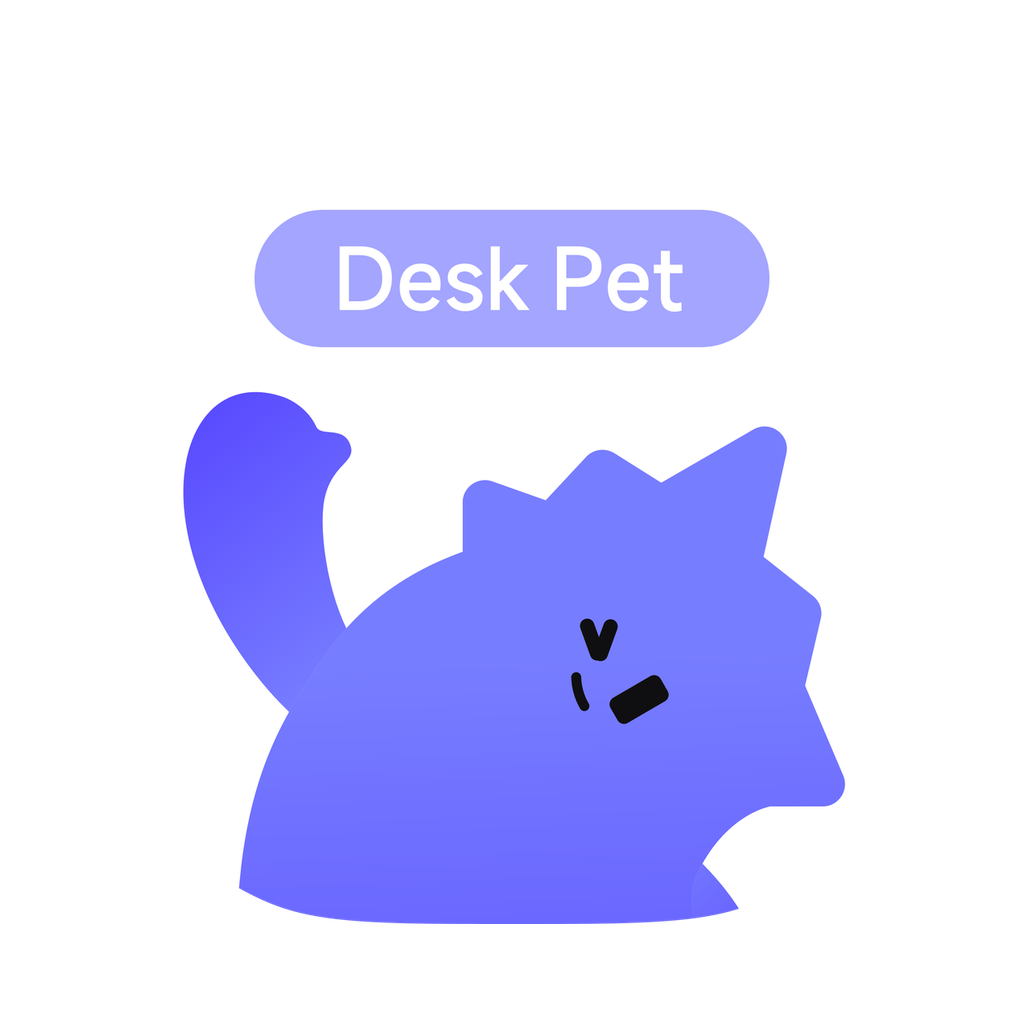
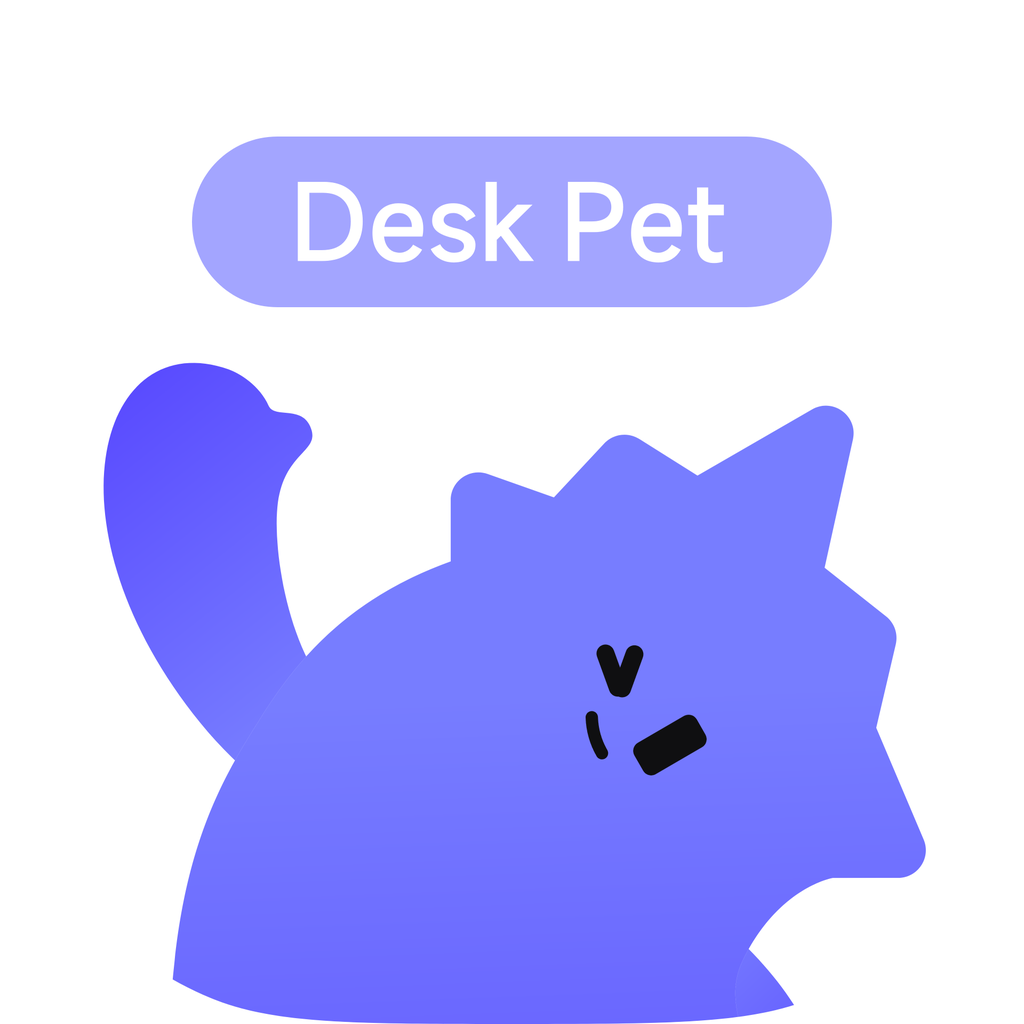
Update assets

diff --git a/CLAUDE.md b/CLAUDE.md
@@ -62,6 +62,12 @@ Both suites must pass before opening a PR.
 # Repack dmg without rebuilding sidecar
 cd clawd-on-desk && npm run build:mac:repack
 
+# Signed + Apple-notarized dmg (requires .env.apple-notarize.local)
+cd clawd-on-desk && npm run build:mac:notarize
+
+# Regenerate app icons from the master source
+python3 clawd-on-desk/scripts/generate-icons.py
+
 # Platform-specific builds (from clawd-on-desk/)
 npm run build:win:x64
 npm run build:win:arm64
@@ -116,7 +122,7 @@ Each coding agent integrates via hooks, log monitors, or plugins. `src/agent-gat
 - **License**: AGPL-3.0-only. The `clawd-on-desk/` directory is a vendored fork — keep upstream conventions and avoid unnecessary divergence.
 - **Resource paths**: Always use `path.join(__dirname, ...)`.
 - **Hook registration**: Only append to existing Claude hook arrays, never overwrite.
-- **Assets**: To edit release assets, copy to `assets/source/` first; don't edit originals of unknown provenance.
+- **Assets**: To edit release assets, copy to `assets/source/` first; don't edit originals of unknown provenance. App icon master is `assets/source/icon-master.png`; regenerate all icon assets via `python3 scripts/generate-icons.py`. Icons must be full-bleed square (opaque into corners) so macOS Tahoe tiles them correctly.
 - **Windows builds**: Must produce separate x64/ARM64 installers (`nsis.buildUniversalInstaller: false`).
 
 ## Key Constraints